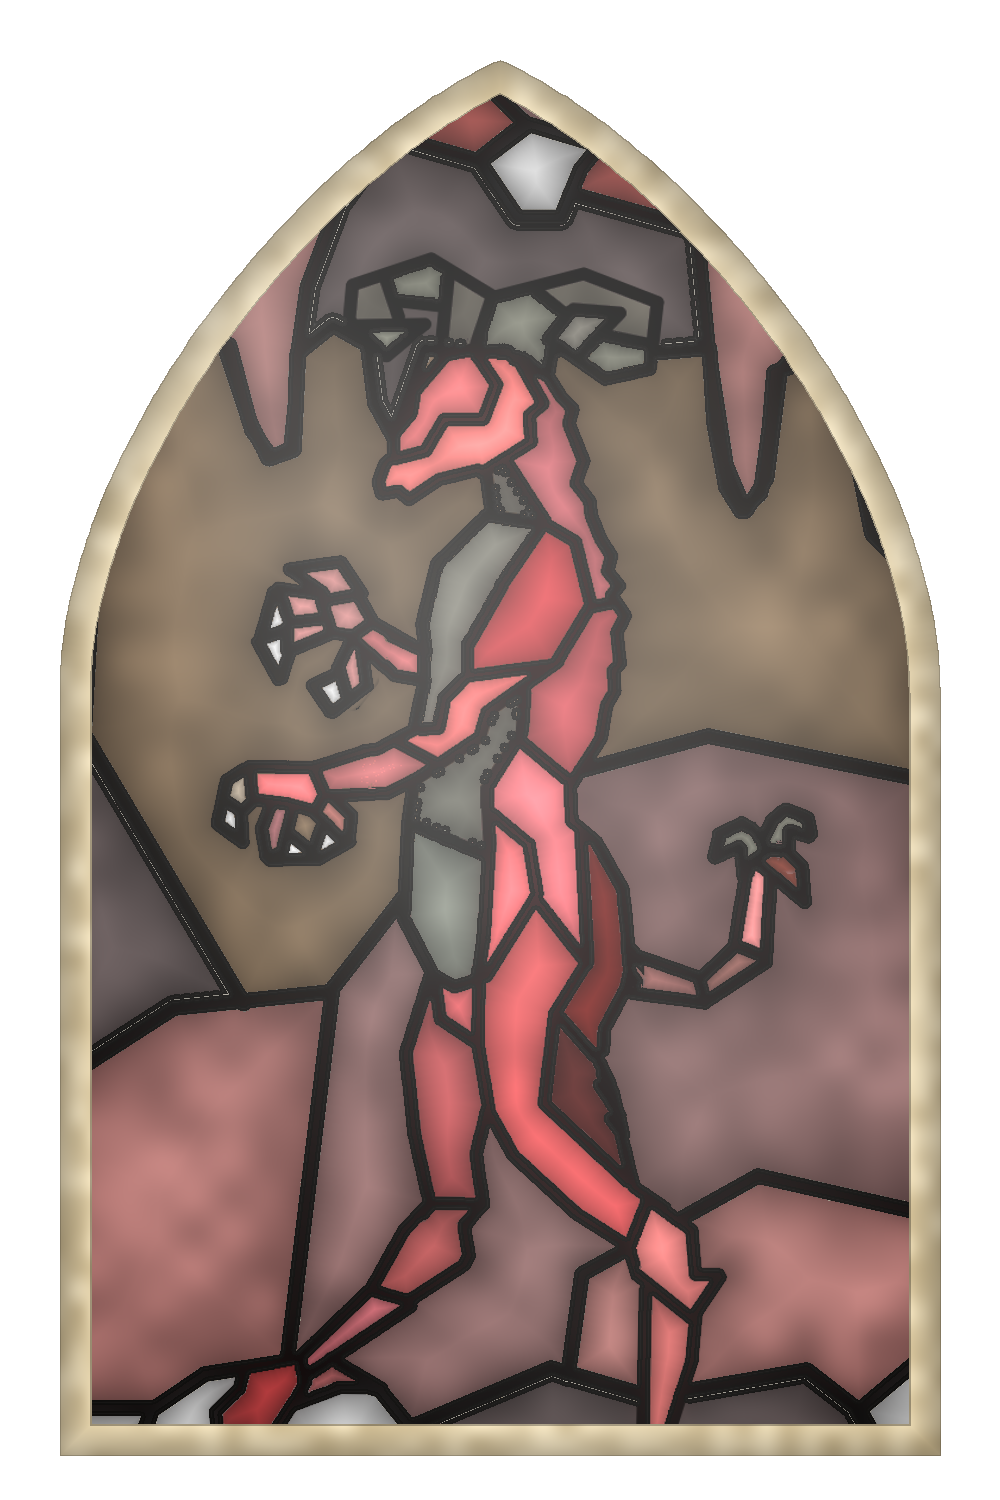
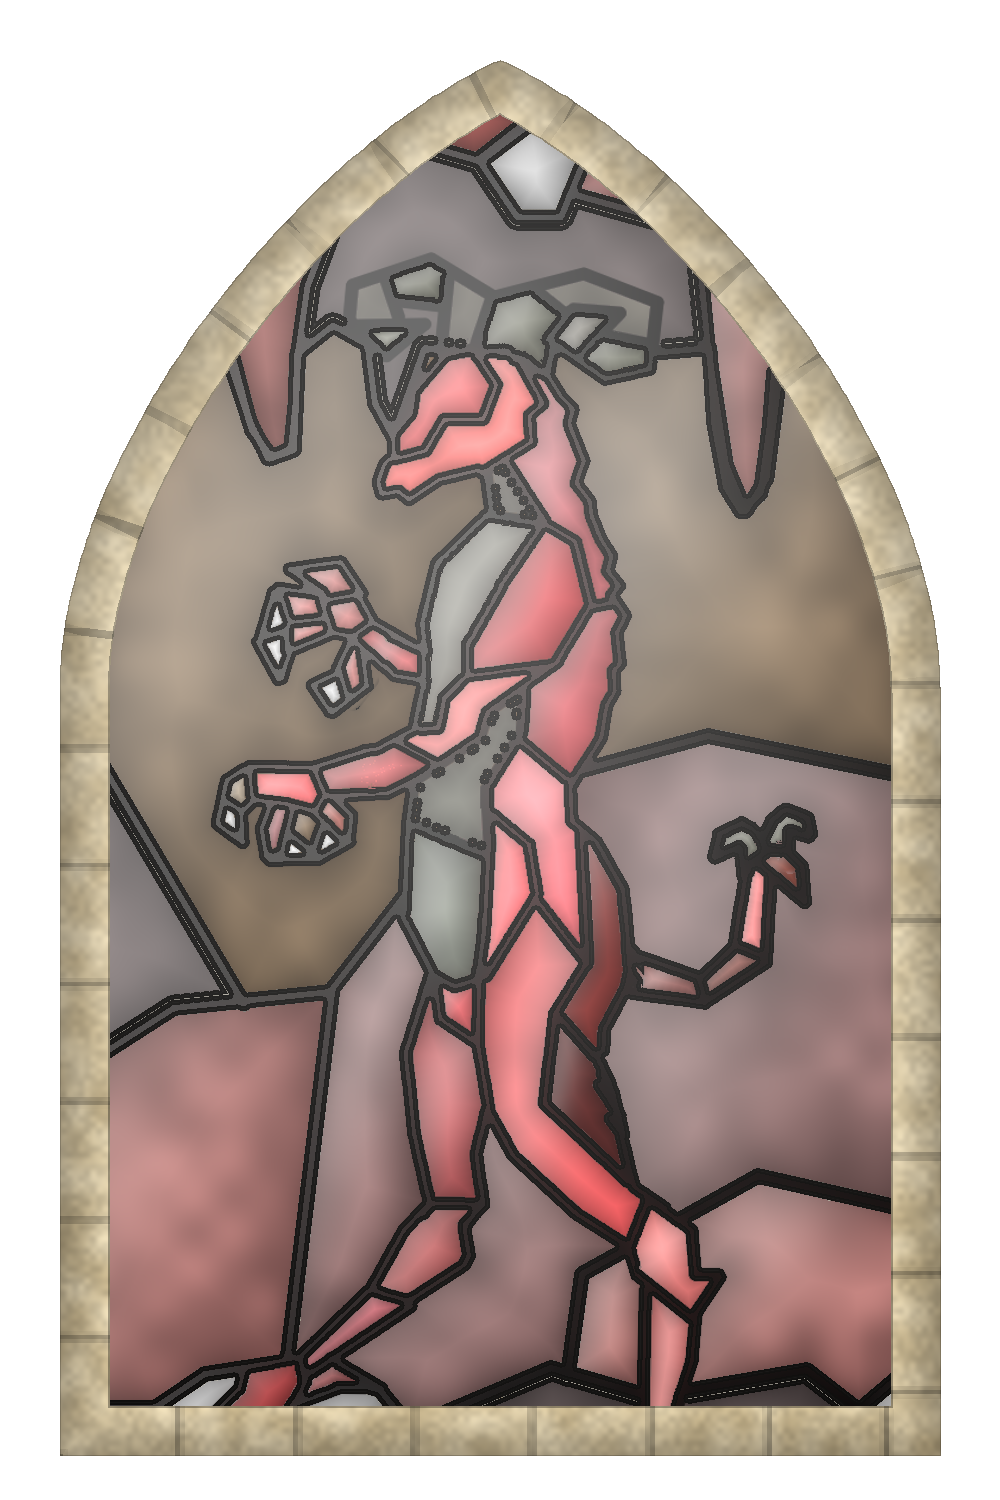
Vercel Json

Changed region(s): [[0.062, 0.0307, 0.93, 0.9813], [0.465, 0.6133, 0.496, 0.644]]

diff --git a/scripts/stained_glass.py b/scripts/stained_glass.py
@@ -70,6 +70,24 @@ daylight is genuinely coming through rather than just glinting off the
 surface. Controlled separately via `light_strength` (default 0.28) so it
 can be tuned independently of the depth vignette.
 
+v6 responds to two more requests together: (1) the stone border is thicker
+(`thick_frac` 0.032 -> 0.050) and actually textured now -- finer grain, a
+few weathering blotches, and (new) coursed seams crossing the border at
+even intervals all the way round, keyed to the arch's own perimeter
+position via `_arclen_map()` so they land evenly regardless of size/aspect
+-- reads as built ashlar stone rather than a painted ring. (2) The
+reflection is no longer one streak across the whole window: `_finish_glass`
+(renamed from `_depth_and_gloss`) now finds each individual enclosed glass
+pane (the same `labels` the inner glow/mottle already grouped panes by) and
+gives it its own small diagonal catch-light at a randomised angle and
+position, confined to real glass pixels only (never the lead, never the
+stone). The whole-window backlight glow and depth vignette stay global --
+those represent one light source and one recessed frame, which is
+physically right -- only the specular reflection moved to per-pane, since
+that's what real dozens-of-individually-set-facets leaded glass actually
+does. New `reflection`/`pane_gloss_strength` params, `--no-reflection` /
+`--pane-gloss-strength` on the CLI.
+
 Usage:
     python3 stained_glass.py IN.png OUT.png [--strength subtle|medium|strong]
 
@@ -94,16 +112,52 @@ def _cubic(p0, p1, p2, p3, steps=100):
     return pts
 
 
+def _arch_outline(w, h, straight_steps=2, curve_steps=100):
+    """The app's pointed-arch outline as a list of (x, y) pixel points, in
+    perimeter order. `straight_steps`/`curve_steps` control how finely each
+    segment is subdivided -- gothic_arch_mask only needs the polygon
+    vertices (cheap, straight_steps=2), but the stone border's coursed
+    seams need it dense and roughly evenly sampled along the curve too
+    (see _arclen_map)."""
+    def lerp_pts(p0, p1, n):
+        return [(p0[0] + (p1[0] - p0[0]) * t / n, p0[1] + (p1[1] - p0[1]) * t / n) for t in range(n + 1)]
+
+    pts = lerp_pts((0.06, 0.97), (0.06, 0.46), straight_steps)
+    pts += _cubic((0.06, 0.46), (0.06, 0.30), (0.30, 0.10), (0.5, 0.04), steps=curve_steps)[1:]
+    pts += _cubic((0.5, 0.04), (0.70, 0.10), (0.94, 0.30), (0.94, 0.46), steps=curve_steps)[1:]
+    pts += lerp_pts((0.94, 0.46), (0.94, 0.97), straight_steps)[1:]
+    pts += lerp_pts((0.94, 0.97), (0.06, 0.97), straight_steps)[1:]
+    return [(x * w, y * h) for x, y in pts]
+
+
 def gothic_arch_mask(w, h):
     """1-bit mask, True inside the app's pointed-arch window, for a W x H image."""
-    outline = [(0.06, 0.97), (0.06, 0.46)]
-    outline += _cubic((0.06, 0.46), (0.06, 0.30), (0.30, 0.10), (0.5, 0.04))[1:]
-    outline += _cubic((0.5, 0.04), (0.70, 0.10), (0.94, 0.30), (0.94, 0.46))[1:]
-    outline += [(0.94, 0.97), (0.06, 0.97)]
-    poly = [(x * w, y * h) for x, y in outline]
+    poly = _arch_outline(w, h)
     m = Image.new("L", (w, h), 0)
     ImageDraw.Draw(m).polygon(poly, fill=255)
     return np.array(m) > 0
+
+
+def _arclen_map(w, h):
+    """For every pixel, the fractional distance (0..1) along the arch's own
+    outline to the NEAREST point of that outline -- lets the stone border's
+    coursed seams follow this exact silhouette regardless of size/aspect,
+    without hand-fitting arc-length math to the bezier curves."""
+    pts = _arch_outline(w, h, straight_steps=180, curve_steps=180)
+    pts_arr = np.array(pts, dtype=np.float64)
+    seg = np.hypot(*(pts_arr[1:] - pts_arr[:-1]).T)
+    cum = np.concatenate([[0.0], np.cumsum(seg)])
+    total = cum[-1] if cum[-1] > 0 else 1.0
+    arclen_norm = (cum / total).astype(np.float32)
+
+    arclen_img = np.full((h, w), -1.0, dtype=np.float32)
+    xs = np.clip(pts_arr[:, 0].round().astype(int), 0, w - 1)
+    ys = np.clip(pts_arr[:, 1].round().astype(int), 0, h - 1)
+    arclen_img[ys, xs] = arclen_norm
+
+    known = arclen_img >= 0
+    _, (iy, ix) = ndimage.distance_transform_edt(~known, return_indices=True)
+    return arclen_img[iy, ix]
 
 
 PRESETS = {
@@ -182,16 +236,25 @@ def find_and_fill_gaps(rgb, is_line, gray_min=110, chroma_max=28, max_halfwidth=
     return fixed, gap_mask
 
 
-def _stone_border(w, h, arch_mask, seed=0, thick_frac=0.032):
-    """A modest, UNIFORM stone surround carved just inside the arch's own
-    silhouette -- like a window's stone jambs/reveal, not a separate frame
-    stuck on top, so it needs no extra canvas margin. Same thickness all
-    the way round, including a clean flat strip along the arch's flat
-    bottom edge -- an early version tried to bulge this into buttress-style
-    piers at the base corners, but on the actual paintings that read as
-    lumpy/odd rather than architectural, so it was dropped in favour of
-    a plain, even reveal (still called a "stone border" -- the restrained,
-    even version reads as the elegant one).
+def _stone_border(w, h, arch_mask, seed=0, thick_frac=0.050, n_courses=34):
+    """A UNIFORM stone surround carved just inside the arch's own silhouette
+    -- like a window's stone jambs/reveal, not a separate frame stuck on
+    top, so it needs no extra canvas margin. Same thickness all the way
+    round, including a clean flat strip along the arch's flat bottom edge
+    -- an early version tried to bulge this into buttress-style piers at
+    the base corners, but on the actual paintings that read as lumpy/odd
+    rather than architectural, so it was dropped in favour of a plain,
+    even reveal.
+
+    Thickened and given actual stone texture per feedback ("a bit thicker
+    with a stone texture"): finer grain, a few weathering blotches (the
+    same idea as static/textures/limestone.jpg's procedural texture, just
+    inlined here rather than shared -- this runs on a painting, that runs
+    standalone), and -- the part that makes it read as built rather than
+    painted -- coursed seams: thin dark lines crossing the border at even
+    intervals all the way round, like real ashlar voussoirs framing a
+    window. The seams are keyed to `_arclen_map()`, the arch's own
+    perimeter position, so they always land evenly regardless of size.
 
     Returns (is_border, stone_rgb) -- stone_rgb is meaningful only where
     is_border is True; the caller composites it over the glass render.
@@ -211,68 +274,101 @@ def _stone_border(w, h, arch_mask, seed=0, thick_frac=0.032):
     stone_hi = np.array([226, 211, 176], dtype=np.float32)
     stone = stone_lo[None, None, :] * (1 - tone[..., None]) + stone_hi[None, None, :] * tone[..., None]
 
+    # Finer grain on top of the mottling -- an actual stone surface, not a
+    # smooth gradient.
+    grain = _smooth_noise(h, w, scale=6, seed=seed + 501)
+    stone = stone * (0.94 + 0.06 * grain[..., None])
+
+    # Occasional weathering blotches.
+    blotch = _smooth_noise(h, w, scale=70, seed=seed + 502)
+    blotch = np.clip((blotch - 0.55) * 2.2, 0, 1)
+    stone = stone * (1 - 0.14 * blotch[..., None]) + stone_lo[None, None, :] * (0.14 * blotch[..., None])
+
     # Relief shading: a shallow shadow where the reveal meets the glass,
     # easing to a soft highlight toward the arch's outer silhouette --
     # reads as a carved stone reveal rather than a flat painted ring.
     depth = np.clip(dist_in / np.maximum(thickness, 1e-3), 0, 1)
     stone = stone * (0.80 + 0.32 * depth)[..., None]
 
+    # Coursed-stone seams, evenly spaced along the arch's own perimeter.
+    arclen = _arclen_map(w, h)
+    phase = (arclen * n_courses) % 1.0
+    seam_dist = np.minimum(phase, 1 - phase)
+    seam = np.clip(1 - seam_dist / 0.05, 0, 1)
+    stone = stone * (1 - 0.30 * seam[..., None])
+
     # A crisp dark line right at the outer silhouette so the window reads
     # clean against whatever card background it sits on...
-    outer_line = is_border & (dist_in >= thickness - 1.4)
-    stone = np.where(outer_line[..., None], stone * 0.68, stone)
+    outer_line = is_border & (dist_in >= thickness - 1.6)
+    stone = np.where(outer_line[..., None], stone * 0.66, stone)
     # ...and a fine seam exactly where stone meets glass.
-    inner_seam = is_border & (dist_in <= 1.6)
-    stone = np.where(inner_seam[..., None], stone * 0.82, stone)
+    inner_seam = is_border & (dist_in <= 1.8)
+    stone = np.where(inner_seam[..., None], stone * 0.80, stone)
 
     return is_border, np.clip(stone, 0, 255)
 
 
-def _depth_and_gloss(rgb, w, h, strength=0.10, light_strength=0.28):
-    """A very light, cheap depth+gloss pass over the whole window (glass AND
-    stone), applied last. These avatars render small -- a seat-circle
-    thumbnail, a role-card portrait -- so this is deliberately subtle:
-    stronger than ~0.12 starts to muddy the linework at that size for no
-    real gain.
+def _finish_glass(rgb, w, h, labels, n, glass_mask, seed=0,
+                   depth_strength=0.10, light_strength=0.28,
+                   pane_gloss_strength=0.24):
+    """Applied last, over the whole finished window. Three ingredients:
 
-    Two ingredients, both just a per-pixel multiply/screen against the
-    already-finished image, no new geometry:
-      - a gentle vignette, darkest toward the lower corners, clear near the
-        top -- reads as the window sitting a little recessed / lit from
-        above, i.e. "depth" -- and
-      - a soft diagonal glass-glare streak from the upper-left, screen-
-        blended -- "reflection" -- fading out before it reaches the bottom.
+      - a gentle DEPTH vignette over the whole window (glass, stone, lead
+        alike) -- darkest toward the lower corners, clear near the top --
+        reads as the window sitting a little recessed.
+      - a broad, soft BACKLIGHT glow, also over the whole window -- as if
+        daylight is genuinely coming through from behind, not just glinting
+        off the surface.
+      - a PER-PANE reflection: each individual enclosed glass pane (the
+        same `labels` the inner glow/mottle earlier used) gets its own
+        small diagonal catch-light at a randomised angle/position/width,
+        confined to `glass_mask` (excludes the lead lines and the stone
+        border). Real leaded glass is dozens of individually-set, slightly
+        tilted facets; one reflection streak across the whole window always
+        read as a sticker on a flat sheet, where per-pane highlights read
+        as actual glasswork -- per feedback ("identify glass regions...
+        apply the reflection per glass panel").
+
+    These avatars render small (a seat-circle thumbnail, a role-card
+    portrait), so all three stay deliberately restrained by default.
     """
     yy, xx = np.mgrid[0:h, 0:w].astype(np.float32)
     nx, ny = xx / w, yy / h  # 0..1 across the canvas
 
     vign = np.hypot((nx - 0.5) * 1.1, (ny - 0.62) * 1.0)
     vign = np.clip(vign - 0.32, 0, 1)
-    shade = 1.0 - strength * vign
-
-    # Primary glass-glare streak, upper-left light source.
-    d1 = (nx - ny * 0.5) - 0.12
-    gloss1 = np.exp(-(d1 ** 2) / (2 * 0.10 ** 2))
-    gloss1 *= np.clip(1.2 - ny * 1.3, 0, 1)  # fades out before the bottom
-
-    # Second, softer catch-light on the opposite diagonal -- real photographed
-    # stained glass rarely shows just one reflection band, and a second one
-    # (different angle, lower-right, weaker) reads as more convincingly
-    # "glass" rather than a single stripe.
-    d2 = (nx + ny * 0.4) - 1.0
-    gloss2 = np.exp(-(d2 ** 2) / (2 * 0.13 ** 2))
-    gloss2 *= np.clip(ny * 1.5 - 0.1, 0, 1)  # fades in before the top
-
-    gloss = np.clip(gloss1 + 0.55 * gloss2, 0, 1)
+    shade = 1.0 - depth_strength * vign
 
     # A broad, soft backlight glow -- as if daylight is actually coming
-    # through the window from behind, not just glinting off the surface.
-    # Centred a little above middle (most panes' "sky"/background area).
+    # through the window from behind. Centred a little above middle (most
+    # panes' "sky"/background area).
     bx, by = 0.5, 0.4
     backlight = np.exp(-(((nx - bx) * 1.05) ** 2 + ((ny - by) * 1.2) ** 2) / (2 * 0.30 ** 2))
 
+    pane_gloss = np.zeros((h, w), dtype=np.float32)
+    if pane_gloss_strength > 0 and n > 0:
+        objects = ndimage.find_objects(labels)
+        min_area = max(40, int(0.00006 * w * h))  # skip tiny slivers/specks
+        for idx, sl in enumerate(objects, start=1):
+            if sl is None:
+                continue
+            pane = (labels[sl] == idx) & glass_mask[sl]
+            if pane.sum() < min_area:
+                continue
+            rng = np.random.default_rng(seed * 7919 + idx)
+            ph, pw = pane.shape
+            pyy, pxx = np.mgrid[0:ph, 0:pw].astype(np.float32)
+            lnx, lny = pxx / max(pw, 1), pyy / max(ph, 1)
+            angle = np.deg2rad(rng.uniform(18, 55))
+            phase = rng.uniform(0.20, 0.55)
+            band = rng.uniform(0.20, 0.34)
+            d = lnx * np.cos(angle) + lny * np.sin(angle) - phase
+            local_gloss = np.exp(-(d ** 2) / (2 * band ** 2))
+            local_gloss = np.where(pane, local_gloss, 0.0)
+            pane_gloss[sl] = np.maximum(pane_gloss[sl], local_gloss)
+
     out = rgb * shade[..., None]
-    screen_amt = np.clip(gloss * strength * 1.05 + backlight * light_strength, 0, 0.85)
+    screen_amt = np.clip(backlight * light_strength + pane_gloss * pane_gloss_strength, 0, 0.85)
     out = out + (255.0 - out) * screen_amt[..., None]
     return np.clip(out, 0, 255)
 
@@ -284,6 +380,7 @@ def stained_glass(img: Image.Image, strength: str = "medium",
                    border: bool = True, border_seed: int = None,
                    depth: bool = True, depth_strength: float = 0.10,
                    light_strength: float = 0.28,
+                   reflection: bool = True, pane_gloss_strength: float = 0.24,
                    return_debug: bool = False):
     p = PRESETS[strength]
     rgb = np.array(img.convert("RGB")).astype(np.float32)
@@ -348,8 +445,18 @@ def stained_glass(img: Image.Image, strength: str = "medium",
         )
         out = np.where(is_border[..., None], stone_rgb, out)
 
-    if depth:
-        out = _depth_and_gloss(out, w, h, strength=depth_strength, light_strength=light_strength)
+    # The actual visible glass pixels once the stone reveal has been carved
+    # out of the arch's edge -- this is what the per-pane reflection below
+    # is confined to (never the lead lines, never the stone).
+    glass_mask = mask & (~is_border) & (~is_line)
+
+    if depth or reflection:
+        out = _finish_glass(
+            out, w, h, labels, n, glass_mask, seed=seed,
+            depth_strength=depth_strength if depth else 0.0,
+            light_strength=light_strength if depth else 0.0,
+            pane_gloss_strength=pane_gloss_strength if reflection else 0.0,
+        )
 
     out = np.clip(out, 0, 255).astype(np.uint8)
     rgba = np.dstack([out, (mask * 255).astype(np.uint8)])
@@ -369,11 +476,15 @@ def main():
     ap.add_argument("--no-border", action="store_true")
     ap.add_argument("--no-depth", action="store_true")
     ap.add_argument("--light-strength", type=float, default=0.28)
+    ap.add_argument("--no-reflection", action="store_true")
+    ap.add_argument("--pane-gloss-strength", type=float, default=0.24)
     args = ap.parse_args()
     src = Image.open(args.infile)
     out = stained_glass(src, strength=args.strength, fill_gaps=not args.no_gap_fill,
                          border=not args.no_border, depth=not args.no_depth,
-                         light_strength=args.light_strength)
+                         light_strength=args.light_strength,
+                         reflection=not args.no_reflection,
+                         pane_gloss_strength=args.pane_gloss_strength)
     out.save(args.outfile)
     print(f"saved {args.outfile} ({out.size[0]}x{out.size[1]}, strength={args.strength})")
 

diff --git a/docs/decisions.md b/docs/decisions.md
@@ -2,6 +2,63 @@
 
 Short records of choices that would otherwise be hard to reconstruct. Newest first.
 
+## 2026-09-10b — stained-glass v6: thicker textured stone border, per-pane reflection, Empath
+
+- **`_stone_border()` thickened and textured** per feedback ("a bit thicker
+  with a stone texture"): `thick_frac` 0.032 → 0.050, plus fine grain and a
+  few weathering blotches layered onto the existing mottle. The part that
+  actually reads as *built* rather than painted is new coursed seams —
+  thin dark lines crossing the border at even intervals all the way round,
+  like real ashlar voussoirs framing a window. They're keyed to a new
+  `_arclen_map()` (nearest-point-on-outline lookup via
+  `distance_transform_edt(..., return_indices=True)` against a densely
+  resampled `_arch_outline()`), so the coursing always lands evenly around
+  the arch regardless of size/aspect rather than being hand-fit to the
+  bezier curves. `gothic_arch_mask()` now delegates to the same
+  `_arch_outline()` helper — one outline definition, two consumers.
+- **Reflection moved from one whole-window streak to per glass pane**, per
+  feedback ("identify glass regions... apply the reflection per glass
+  panel"). `_depth_and_gloss()` renamed to `_finish_glass()`; the global
+  depth vignette and backlight glow stay (one light source, one recessed
+  frame — physically right to keep global), but the specular glass-glare
+  is now computed per connected pane (reusing the `labels` the inner
+  glow/mottle pass already grouped panes by): each pane above a minimum
+  area gets its own small diagonal catch-light at a randomised (seeded per
+  pane) angle/position, confined to actual glass pixels — never the lead,
+  never the stone. Real leaded glass is dozens of individually-set facets;
+  one streak across the whole window read as a sticker on a flat sheet,
+  where per-pane highlights read as actual glasswork. New `reflection` /
+  `pane_gloss_strength` (default 0.24) params, `--no-reflection` /
+  `--pane-gloss-strength` on the CLI.
+- **Empath painted and processed** — the first new character since Monk/
+  Scarlet Woman. `id: 'empath'` was already present in
+  `trouble-brewing.ts`, so no script-data change was needed; just ran it
+  through the pipeline at `--strength strong` alongside a full re-run of
+  the other seven (border + reflection changes touch every pixel, so all
+  eight got regenerated together and reviewed as one labelled 4×2 grid on
+  the actual card background before pushing).
+- **`static/avatars/{washerwoman,librarian,poisoner,imp,chef,monk,
+  scarlet-woman,empath}.png`** all live. Also folded in a documentation
+  gap: the v5.1 light/reflection strengthening (below) had been coded and
+  pushed previously but never got a decisions.md entry — added
+  retroactively so the log matches what actually shipped.
+
+## 2026-09-10 — stained-glass v5.1: stronger light-through-glass effect
+
+- **`_depth_and_gloss()` extended** per feedback ("more glass like
+  reflection... light coming through"): a second, softer catch-light streak
+  on the opposite diagonal from the first (real photographed stained glass
+  rarely shows just one reflection band), plus a broad soft backlight glow
+  centred a little above the window's middle, screen-blended in — reads as
+  daylight genuinely coming through rather than just a glint off the
+  surface. Split into its own `light_strength` parameter (default bumped
+  from 0.16 to 0.28 after an A/B check at 0.16/0.28/0.40 — 0.40 started
+  washing out the linework in the upper panes) so it can be tuned
+  independently of the depth vignette. `--light-strength` on the CLI.
+- All seven avatars (pre-Empath) re-run at the new default and re-pushed.
+  Superseded a day later by v6 above, which replaced this whole-window
+  streak with per-pane reflections.
+
 ## 2026-09-09b — stained-glass v5: depth + gloss pass, re-rendered Monk/Scarlet Woman
 
 - **`_depth_and_gloss()` added to `stained_glass.py`.** A small, cheap pass
